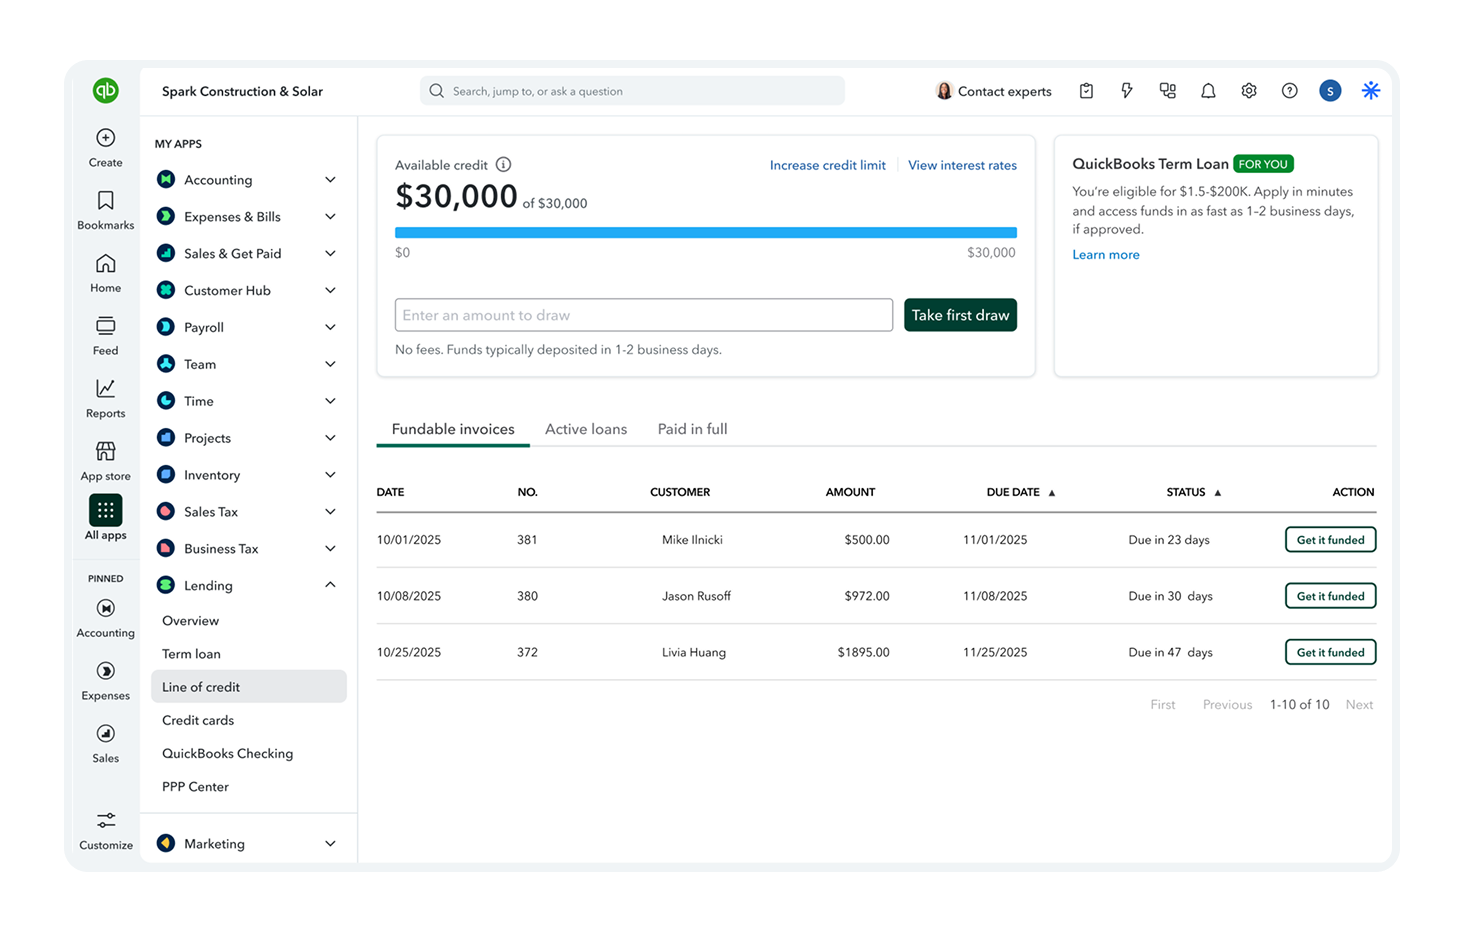
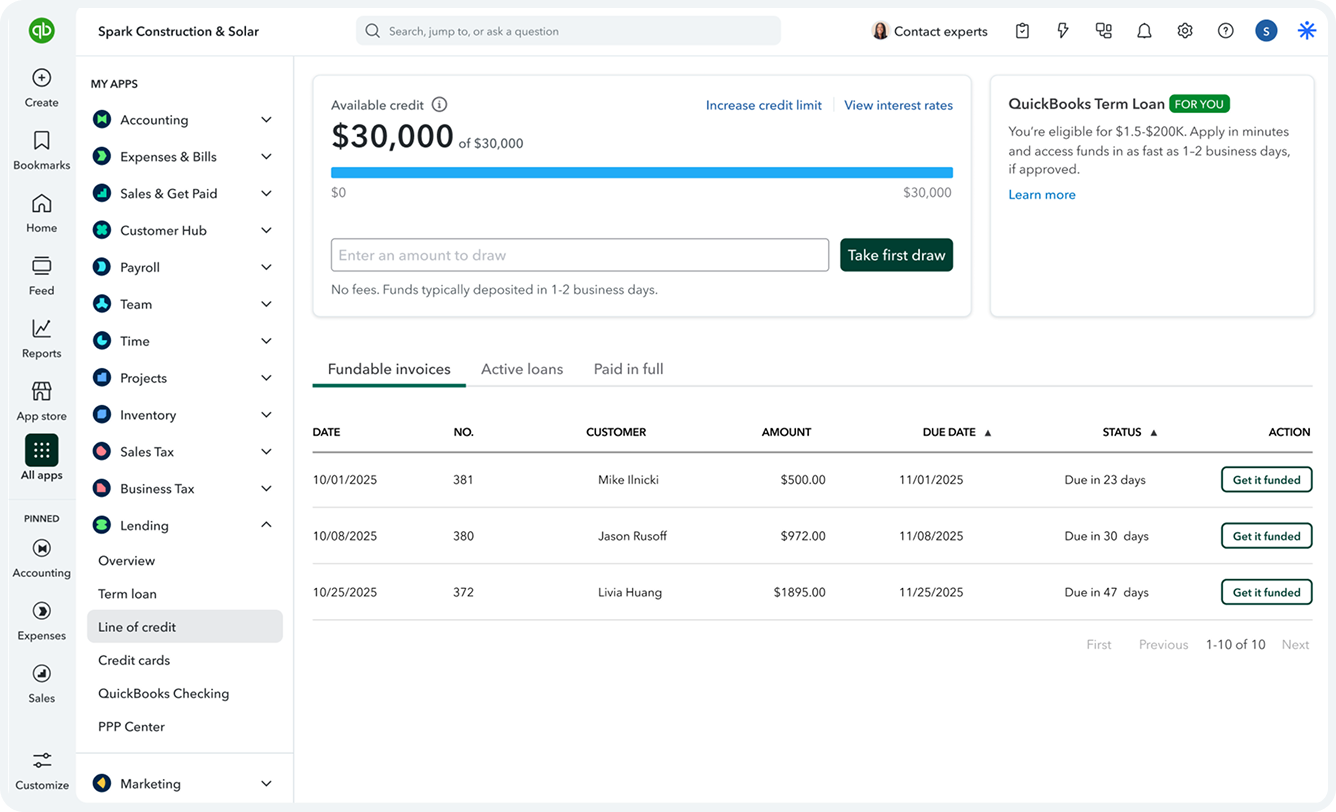
Portfolio: image shadows, trimmed frames, cap-aligned headings, larger links
- Screenshots share the scrolled nav's soft shadow (--shadow-soft),
  as a drop-shadow that follows the frame's rounded corners
- Re-exported Index_ images trimmed to their frames
- Area headings use text-box trim so cap tops meet the image top in
  every browser; fixed pull-up kept as a fallback
- Case study links match the subhead size (--text-body)

diff --git a/work.html b/work.html
@@ -9,7 +9,7 @@
   <link rel="preconnect" href="https://fonts.googleapis.com" />
   <link rel="preconnect" href="https://fonts.gstatic.com" crossorigin />
   <link href="https://fonts.googleapis.com/css2?family=Inter:opsz,wght@14..32,400;14..32,500;14..32,600;14..32,700&family=Source+Serif+4:ital,opsz,wght@0,8..60,400;0,8..60,600;0,8..60,700;1,8..60,400&display=swap" rel="stylesheet" />
-  <link rel="stylesheet" href="assets/css/style.css?v=c5876d8d" />
+  <link rel="stylesheet" href="assets/css/style.css?v=d3738257" />
 </head>
 <body>
 
@@ -65,7 +65,7 @@
     </div>
   </main>
 
[2 lines of base64/hex data omitted]
   <script src="assets/js/unlock.js?v=b97b3598"></script>
 
   <footer class="site-footer">

diff --git a/work/reimagine-invoicing.html b/work/reimagine-invoicing.html
@@ -9,7 +9,7 @@
   <link rel="preconnect" href="https://fonts.googleapis.com" />
   <link rel="preconnect" href="https://fonts.gstatic.com" crossorigin />
   <link href="https://fonts.googleapis.com/css2?family=Inter:opsz,wght@14..32,400;14..32,500;14..32,600;14..32,700&family=Source+Serif+4:ital,opsz,wght@0,8..60,400;0,8..60,700;1,8..60,400&display=swap" rel="stylesheet" />
-  <link rel="stylesheet" href="../assets/css/style.css?v=c5876d8d" />
+  <link rel="stylesheet" href="../assets/css/style.css?v=d3738257" />
 </head>
 <body>
 
@@ -65,7 +65,7 @@
     </div>
   </main>
 
[2 lines of base64/hex data omitted]
   <script src="../assets/js/unlock.js?v=b97b3598"></script>
 
   <footer class="site-footer">

diff --git a/work/case-study-template.html b/work/case-study-template.html
@@ -9,7 +9,7 @@
   <link rel="preconnect" href="https://fonts.googleapis.com" />
   <link rel="preconnect" href="https://fonts.gstatic.com" crossorigin />
   <link href="https://fonts.googleapis.com/css2?family=Inter:opsz,wght@14..32,400;14..32,500;14..32,600;14..32,700&family=Source+Serif+4:ital,opsz,wght@0,8..60,400;0,8..60,700;1,8..60,400&display=swap" rel="stylesheet" />
-  <link rel="stylesheet" href="../assets/css/style.css?v=c5876d8d" />
+  <link rel="stylesheet" href="../assets/css/style.css?v=d3738257" />
 </head>
 <body>
 
@@ -65,7 +65,7 @@
     </div>
   </main>
 
[2 lines of base64/hex data omitted]
   <script src="../assets/js/unlock.js?v=b97b3598"></script>
 
   <footer class="site-footer">

diff --git a/work/bulk-bill-pay.html b/work/bulk-bill-pay.html
@@ -9,7 +9,7 @@
   <link rel="preconnect" href="https://fonts.googleapis.com" />
   <link rel="preconnect" href="https://fonts.gstatic.com" crossorigin />
   <link href="https://fonts.googleapis.com/css2?family=Inter:opsz,wght@14..32,400;14..32,500;14..32,600;14..32,700&family=Source+Serif+4:ital,opsz,wght@0,8..60,400;0,8..60,700;1,8..60,400&display=swap" rel="stylesheet" />
-  <link rel="stylesheet" href="../assets/css/style.css?v=c5876d8d" />
+  <link rel="stylesheet" href="../assets/css/style.css?v=d3738257" />
 </head>
 <body>
 
@@ -65,7 +65,7 @@
     </div>
   </main>
 
[2 lines of base64/hex data omitted]
   <script src="../assets/js/unlock.js?v=b97b3598"></script>
 
   <footer class="site-footer">

diff --git a/work/checkout-enhancements.html b/work/checkout-enhancements.html
@@ -9,7 +9,7 @@
   <link rel="preconnect" href="https://fonts.googleapis.com" />
   <link rel="preconnect" href="https://fonts.gstatic.com" crossorigin />
   <link href="https://fonts.googleapis.com/css2?family=Inter:opsz,wght@14..32,400;14..32,500;14..32,600;14..32,700&family=Source+Serif+4:ital,opsz,wght@0,8..60,400;0,8..60,700;1,8..60,400&display=swap" rel="stylesheet" />
-  <link rel="stylesheet" href="../assets/css/style.css?v=c5876d8d" />
+  <link rel="stylesheet" href="../assets/css/style.css?v=d3738257" />
 </head>
 <body>
 
@@ -65,7 +65,7 @@
     </div>
   </main>
 
[2 lines of base64/hex data omitted]
   <script src="../assets/js/unlock.js?v=b97b3598"></script>
 
   <footer class="site-footer">

diff --git a/work/credit-card-payment.html b/work/credit-card-payment.html
@@ -9,7 +9,7 @@
   <link rel="preconnect" href="https://fonts.googleapis.com" />
   <link rel="preconnect" href="https://fonts.gstatic.com" crossorigin />
   <link href="https://fonts.googleapis.com/css2?family=Inter:opsz,wght@14..32,400;14..32,500;14..32,600;14..32,700&family=Source+Serif+4:ital,opsz,wght@0,8..60,400;0,8..60,700;1,8..60,400&display=swap" rel="stylesheet" />
-  <link rel="stylesheet" href="../assets/css/style.css?v=c5876d8d" />
+  <link rel="stylesheet" href="../assets/css/style.css?v=d3738257" />
 </head>
 <body>
 
@@ -65,7 +65,7 @@
     </div>
   </main>
 
[2 lines of base64/hex data omitted]
   <script src="../assets/js/unlock.js?v=b97b3598"></script>
 
   <footer class="site-footer">

diff --git a/work/home-page-optimization.html b/work/home-page-optimization.html
@@ -9,7 +9,7 @@
   <link rel="preconnect" href="https://fonts.googleapis.com" />
   <link rel="preconnect" href="https://fonts.gstatic.com" crossorigin />
   <link href="https://fonts.googleapis.com/css2?family=Inter:opsz,wght@14..32,400;14..32,500;14..32,600;14..32,700&family=Source+Serif+4:ital,opsz,wght@0,8..60,400;0,8..60,700;1,8..60,400&display=swap" rel="stylesheet" />
-  <link rel="stylesheet" href="../assets/css/style.css?v=c5876d8d" />
+  <link rel="stylesheet" href="../assets/css/style.css?v=d3738257" />
 </head>
 <body>
 
@@ -65,7 +65,7 @@
     </div>
   </main>
 
[2 lines of base64/hex data omitted]
   <script src="../assets/js/unlock.js?v=b97b3598"></script>
 
   <footer class="site-footer">

diff --git a/work/make-all-invoices-payable.html b/work/make-all-invoices-payable.html
@@ -9,7 +9,7 @@
   <link rel="preconnect" href="https://fonts.googleapis.com" />
   <link rel="preconnect" href="https://fonts.gstatic.com" crossorigin />
   <link href="https://fonts.googleapis.com/css2?family=Inter:opsz,wght@14..32,400;14..32,500;14..32,600;14..32,700&family=Source+Serif+4:ital,opsz,wght@0,8..60,400;0,8..60,700;1,8..60,400&display=swap" rel="stylesheet" />
-  <link rel="stylesheet" href="../assets/css/style.css?v=c5876d8d" />
+  <link rel="stylesheet" href="../assets/css/style.css?v=d3738257" />
 </head>
 <body>
 
@@ -65,7 +65,7 @@
     </div>
   </main>
 
[2 lines of base64/hex data omitted]
   <script src="../assets/js/unlock.js?v=b97b3598"></script>
 
   <footer class="site-footer">

diff --git a/work/multi-bill-ingest.html b/work/multi-bill-ingest.html
@@ -9,7 +9,7 @@
   <link rel="preconnect" href="https://fonts.googleapis.com" />
   <link rel="preconnect" href="https://fonts.gstatic.com" crossorigin />
   <link href="https://fonts.googleapis.com/css2?family=Inter:opsz,wght@14..32,400;14..32,500;14..32,600;14..32,700&family=Source+Serif+4:ital,opsz,wght@0,8..60,400;0,8..60,700;1,8..60,400&display=swap" rel="stylesheet" />
-  <link rel="stylesheet" href="../assets/css/style.css?v=c5876d8d" />
+  <link rel="stylesheet" href="../assets/css/style.css?v=d3738257" />
 </head>
 <body>
 
@@ -65,7 +65,7 @@
     </div>
   </main>
 
[2 lines of base64/hex data omitted]
   <script src="../assets/js/unlock.js?v=b97b3598"></script>
 
   <footer class="site-footer">

diff --git a/work/quickbooks-visual-refresh.html b/work/quickbooks-visual-refresh.html
@@ -9,7 +9,7 @@
   <link rel="preconnect" href="https://fonts.googleapis.com" />
   <link rel="preconnect" href="https://fonts.gstatic.com" crossorigin />
   <link href="https://fonts.googleapis.com/css2?family=Inter:opsz,wght@14..32,400;14..32,500;14..32,600;14..32,700&family=Source+Serif+4:ital,opsz,wght@0,8..60,400;0,8..60,700;1,8..60,400&display=swap" rel="stylesheet" />
-  <link rel="stylesheet" href="../assets/css/style.css?v=c5876d8d" />
+  <link rel="stylesheet" href="../assets/css/style.css?v=d3738257" />
 </head>
 <body>
 
@@ -65,7 +65,7 @@
     </div>
   </main>
 
[2 lines of base64/hex data omitted]
   <script src="../assets/js/unlock.js?v=b97b3598"></script>
 
   <footer class="site-footer">

diff --git a/work/recurring-bill-payments.html b/work/recurring-bill-payments.html
@@ -9,7 +9,7 @@
   <link rel="preconnect" href="https://fonts.googleapis.com" />
   <link rel="preconnect" href="https://fonts.gstatic.com" crossorigin />
   <link href="https://fonts.googleapis.com/css2?family=Inter:opsz,wght@14..32,400;14..32,500;14..32,600;14..32,700&family=Source+Serif+4:ital,opsz,wght@0,8..60,400;0,8..60,700;1,8..60,400&display=swap" rel="stylesheet" />
-  <link rel="stylesheet" href="../assets/css/style.css?v=c5876d8d" />
+  <link rel="stylesheet" href="../assets/css/style.css?v=d3738257" />
 </head>
 <body>
 
@@ -65,7 +65,7 @@
     </div>
   </main>
 
[2 lines of base64/hex data omitted]
   <script src="../assets/js/unlock.js?v=b97b3598"></script>
 
   <footer class="site-footer">

diff --git a/work/services-team-offsite.html b/work/services-team-offsite.html
@@ -9,7 +9,7 @@
   <link rel="preconnect" href="https://fonts.googleapis.com" />
   <link rel="preconnect" href="https://fonts.gstatic.com" crossorigin />
   <link href="https://fonts.googleapis.com/css2?family=Inter:opsz,wght@14..32,400;14..32,500;14..32,600;14..32,700&family=Source+Serif+4:ital,opsz,wght@0,8..60,400;0,8..60,700;1,8..60,400&display=swap" rel="stylesheet" />
-  <link rel="stylesheet" href="../assets/css/style.css?v=c5876d8d" />
+  <link rel="stylesheet" href="../assets/css/style.css?v=d3738257" />
 </head>
 <body>
 
@@ -65,7 +65,7 @@
     </div>
   </main>
 
[2 lines of base64/hex data omitted]
   <script src="../assets/js/unlock.js?v=b97b3598"></script>
 
   <footer class="site-footer">
